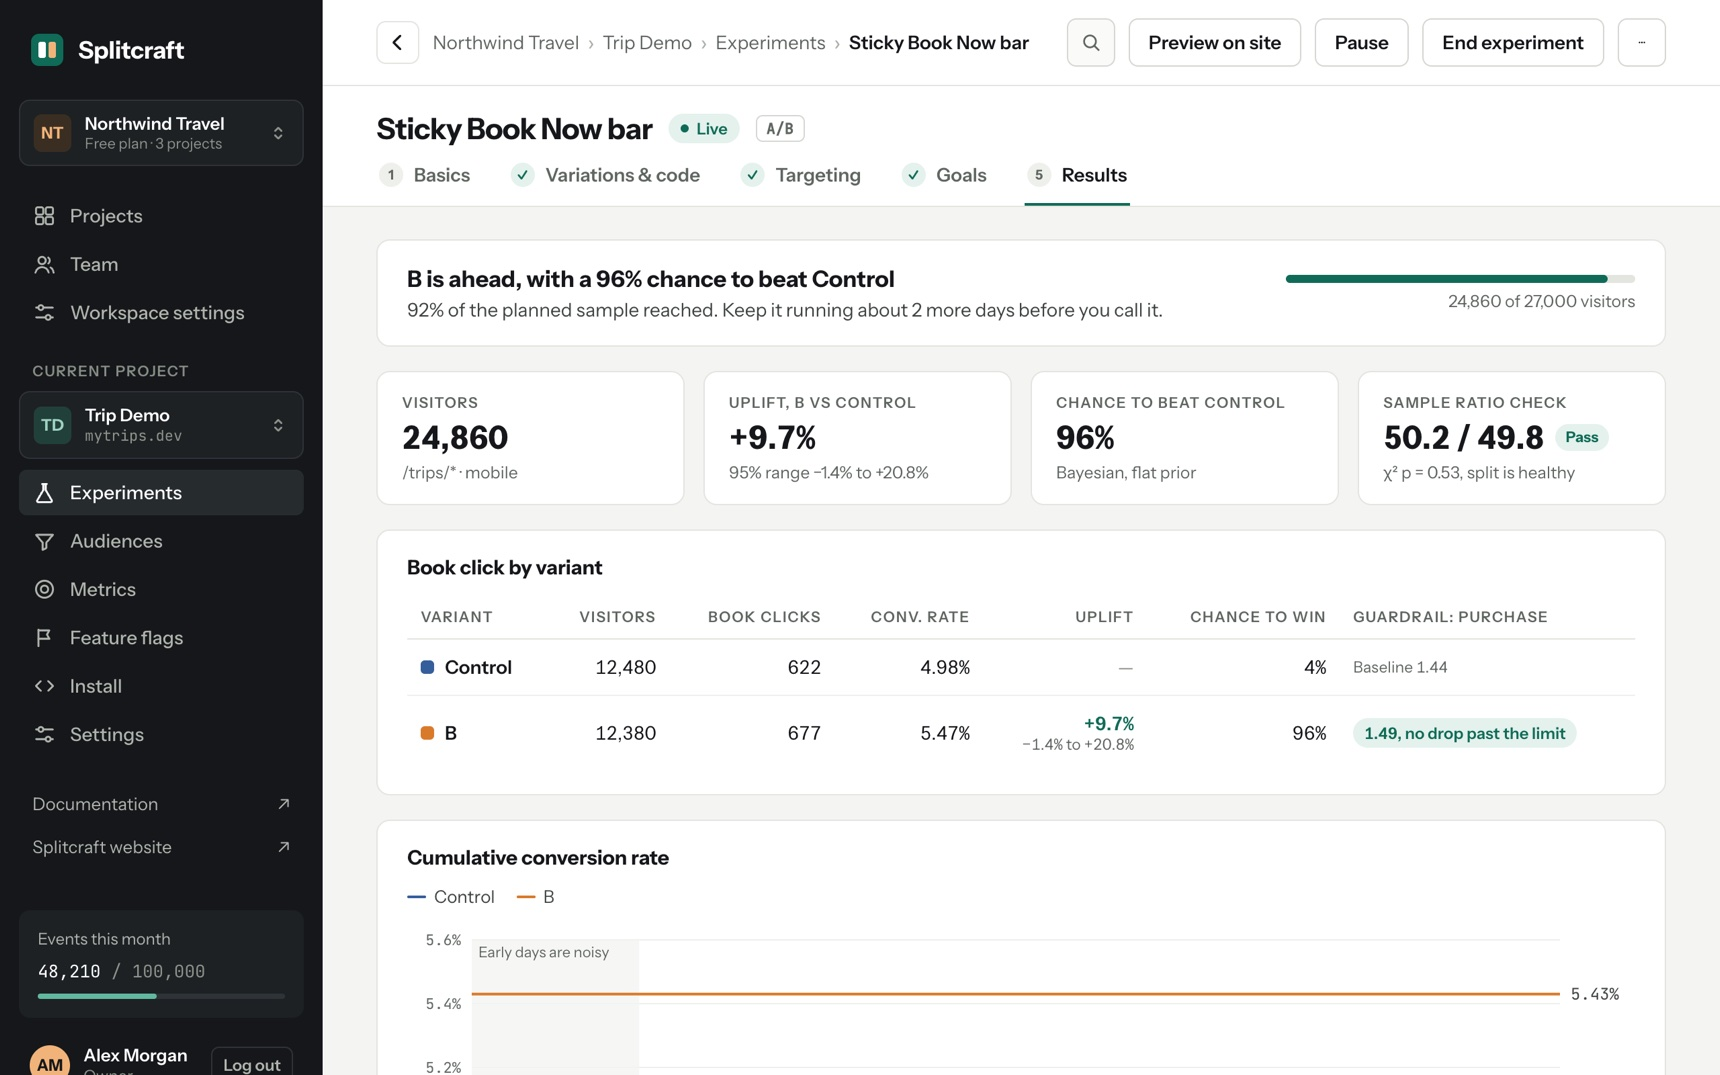
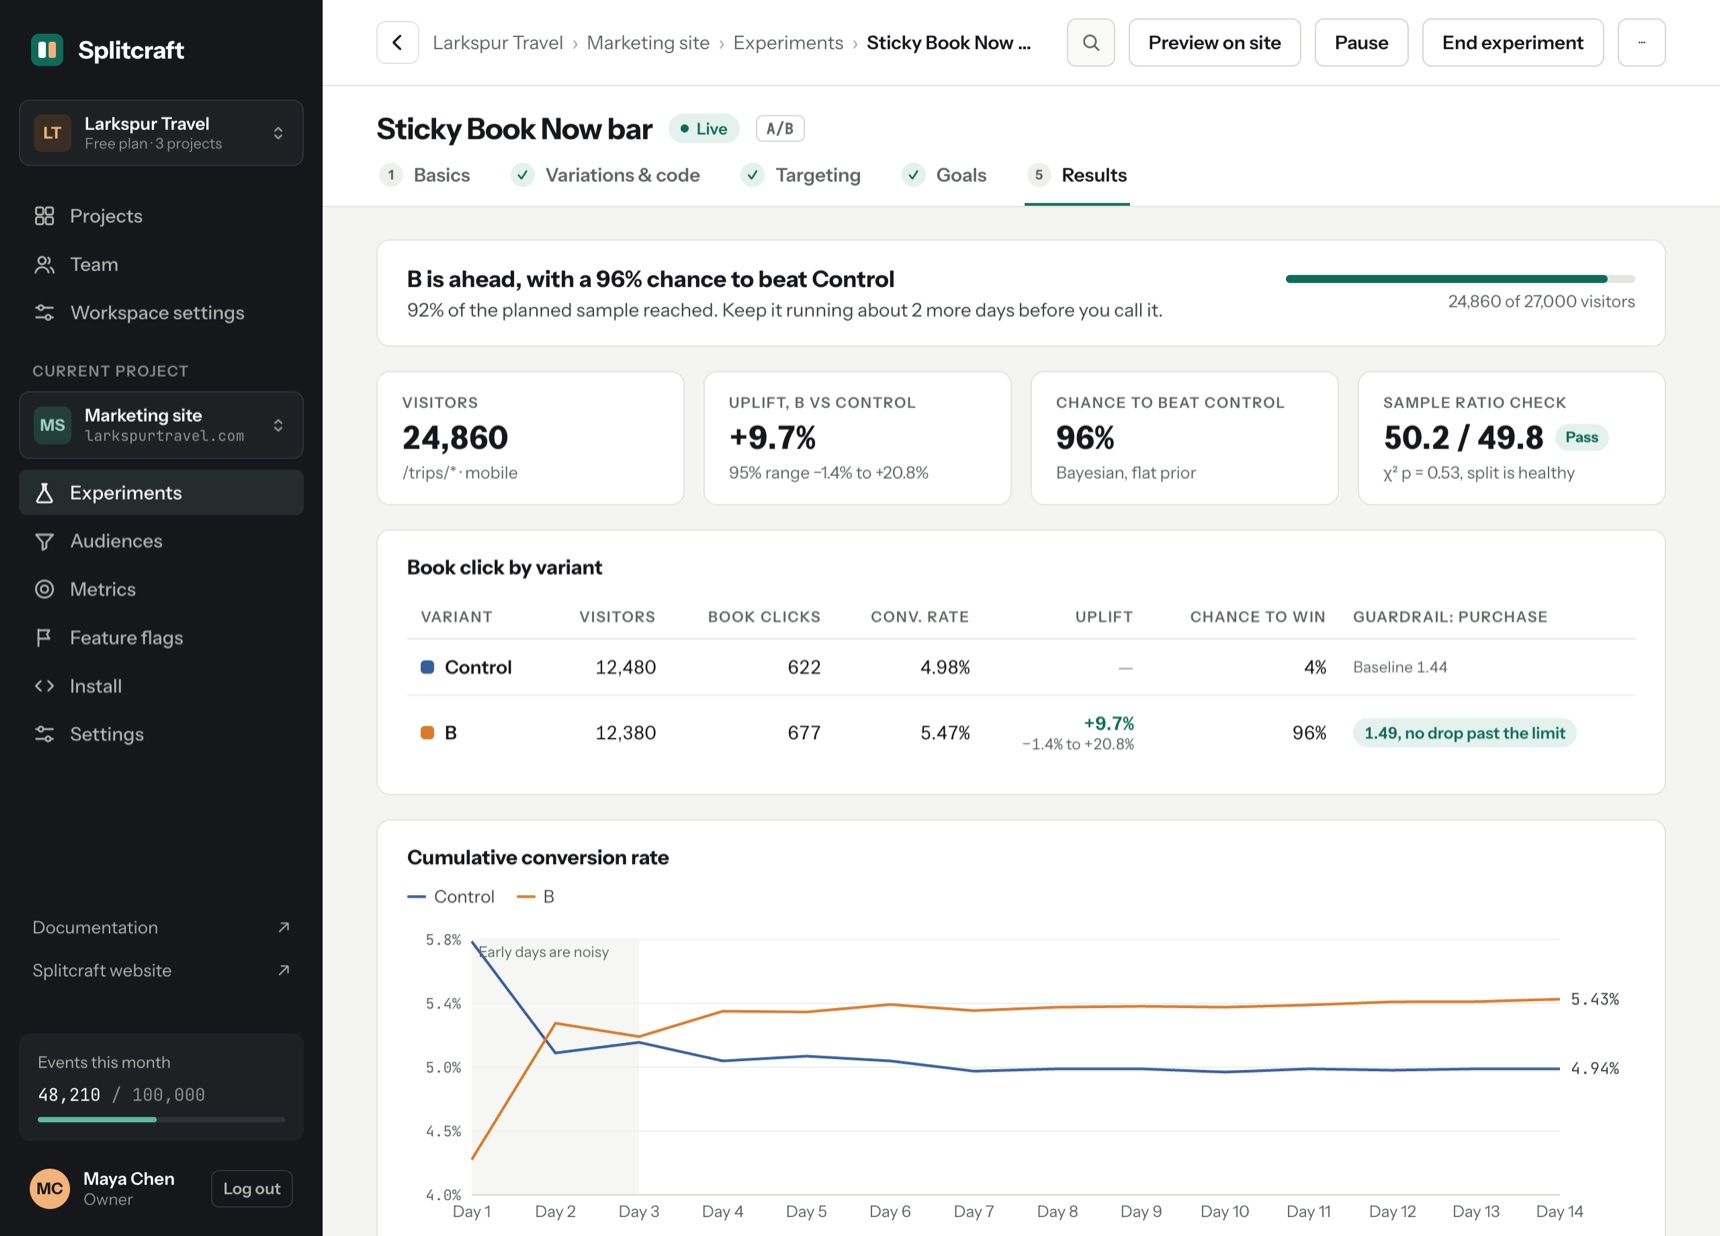
feat(web): retake the hero, tour and README screenshots with the new example data
The hero shot is taller so the whole results chart shows, and the code card
sits lower so it no longer covers the lines.

diff --git a/apps/web/src/Home.tsx b/apps/web/src/Home.tsx
@@ -194,7 +194,7 @@ function ProductShot() {
           className={styles.shotImg}
           src="/shots/hero-results.jpg"
           width={1720}
-          height={1075}
+          height={1236}
           alt=""
           fetchPriority="high"
           decoding="async"

diff --git a/apps/web/src/Home.module.css b/apps/web/src/Home.module.css
@@ -329,7 +329,7 @@
 .floatCode {
   position: absolute;
   left: -44px;
-  bottom: -36px;
+  bottom: -80px;
   padding: 16px 18px;
   border-radius: 12px;
   background: var(--ink);
